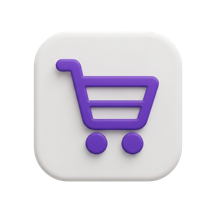
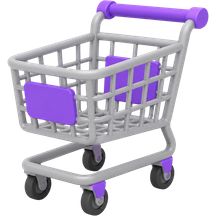
james: uniformizar o X e trocar os ícones das verticais pelos novos 3D
O mesmo ícone tinha dois comportamentos: no autocomplete limpava a consulta,
nos resultados voltava para a tela de busca. Agora os dois chamam
`limparBusca` — devolvem o campo focado vazio, com teclado e histórico.

Como as quatro telas da família de busca dividem o mesmo header de 94px e o
campo em top:42px, a troca continua sem animação de tela (deslizar um header
idêntico era justamente a piscada corrigida antes). Anima só o que muda de
fato: o teclado sobe quando não estava na tela, e o corpo entra em fade só
quando vem dos resultados, onde o conteúdo troca de verdade.

Ícones das verticais trocados pelos novos renders 3D. Dois ajustes foram
necessários: as proporções variavam de 0,93 a 1,99, então num slot quadrado o
Restaurantes ocupava metade da altura dos outros — recompus a arte
aproximando garfo e faca do prato (2:1 -> 1,39:1). E equalizei o peso óptico
pela raiz da área de tinta, que estava entre 78% e 100%, para a fileira ter
ritmo uniforme.

diff --git a/public/prototypes/james/index.html b/public/prototypes/james/index.html
@@ -303,8 +303,8 @@
           </span>
         </div>
         <!-- histórico visível com o campo focado: evita a tela vazia entre campo e teclado -->
-        <sc-if value="{{ temHistorico }}" hint-placeholder-val="{{ true }}"><div style="position:absolute;left:16px;top:118px;font-size:17px;font-weight:700;color:rgb(24,24,28);">{{ t.buscaRecente }}</div></sc-if>
-        <div style="position:absolute;left:0;top:148px;width:360px;padding:0 16px;">
+        <sc-if value="{{ temHistorico }}" hint-placeholder-val="{{ true }}"><div class="{{ corpoBuscaAnim }}" style="position:absolute;left:16px;top:118px;font-size:17px;font-weight:700;color:rgb(24,24,28);">{{ t.buscaRecente }}</div></sc-if>
+        <div class="{{ corpoBuscaAnim }}" style="position:absolute;left:0;top:148px;width:360px;padding:0 16px;">
           <sc-for list="{{ historico }}" as="hrow" hint-placeholder-count="6">
             <div style="width:328px;display:flex;align-items:center;">
               <button onClick="{{ hrow.go }}" style="flex:1;min-width:0;display:flex;align-items:center;gap:12px;padding:10px 0;text-align:left;" style-active="opacity:0.6;">
@@ -347,7 +347,7 @@
           <span style="font-size:13.5px;font-weight:600;color:rgb(38,28,66);">{{ queryTexto }}</span>
           <span style="width:2px;height:16px;background:#7A52CC;animation:caretBlink 1s infinite;margin-left:-6px;"></span>
           <span style="flex:1;"></span>
-          <button onClick="{{ limparBusca }}" aria-label="{{ t.limpar }}" style="width:44px;height:44px;margin-right:-13px;display:flex;align-items:center;justify-content:center;background:none;border:none;padding:0;cursor:pointer;"><svg width="15" height="15" viewBox="0 0 24 24"><circle cx="12" cy="12" r="10" fill="rgb(62,48,96)"></circle><path d="M8.5 8.5 L15.5 15.5 M15.5 8.5 L8.5 15.5" stroke="#fff" stroke-width="1.8" stroke-linecap="round"></path></svg></button>
+          <button onClick="{{ limparBusca }}" aria-label="{{ t.limpar }}" style="width:44px;height:44px;margin-right:-13px;display:flex;align-items:center;justify-content:center;" style-active="opacity:0.6;"><svg width="15" height="15" viewBox="0 0 24 24"><circle cx="12" cy="12" r="10" fill="rgb(62,48,96)"></circle><path d="M8.5 8.5 L15.5 15.5 M15.5 8.5 L8.5 15.5" stroke="#fff" stroke-width="1.8" stroke-linecap="round"></path></svg></button>
         </div>
         <div style="position:absolute;left:0;top:116px;width:360px;padding:0 20px;">
           <sc-for list="{{ sugestoes }}" as="sg" hint-placeholder-count="7">
@@ -383,7 +383,7 @@
           <svg width="16" height="16" viewBox="0 0 24 24"><circle cx="10.5" cy="10.5" r="6.5" fill="none" stroke="rgb(62,48,96)" stroke-width="2"></circle><path d="M15.5 15.5 L21 21" stroke="rgb(62,48,96)" stroke-width="2" stroke-linecap="round"></path></svg>
           <span style="font-size:13.5px;font-weight:600;color:rgb(38,28,66);">Pizza</span>
           <span style="flex:1;"></span>
-          <button onClick="{{ goBusca }}" aria-label="{{ t.limpar }}" style="width:44px;height:44px;margin-right:-13px;display:flex;align-items:center;justify-content:center;" style-active="opacity:0.6;"><svg width="15" height="15" viewBox="0 0 24 24"><circle cx="12" cy="12" r="10" fill="rgb(62,48,96)"></circle><path d="M8.5 8.5 L15.5 15.5 M15.5 8.5 L8.5 15.5" stroke="#fff" stroke-width="1.8" stroke-linecap="round"></path></svg></button>
+          <button onClick="{{ limparBusca }}" aria-label="{{ t.limpar }}" style="width:44px;height:44px;margin-right:-13px;display:flex;align-items:center;justify-content:center;" style-active="opacity:0.6;"><svg width="15" height="15" viewBox="0 0 24 24"><circle cx="12" cy="12" r="10" fill="rgb(62,48,96)"></circle><path d="M8.5 8.5 L15.5 15.5 M15.5 8.5 L8.5 15.5" stroke="#fff" stroke-width="1.8" stroke-linecap="round"></path></svg></button>
         </div>
         <!-- contagem + ordenar/filtrar -->
         <div style="position:absolute;left:16px;top:122px;font-size:12px;font-weight:600;color:rgb(60,60,66);">1211 {{ t.resultados }}</div>
@@ -615,6 +615,8 @@ class Component extends DCLogic {
 
   // Profundidade de cada tela na jornada. Busca, campo focado e autocomplete
   // dividem o mesmo nível: são estados da mesma tela, não navegação.
+  TEM_TECLADO = ['campo', 'auto'];
+
   DEPTH = { splash: 0, home: 1, busca: 2, campo: 2, auto: 2, resultados: 3 };
 
   direction = (from, to) => {
@@ -664,7 +666,8 @@ class Component extends DCLogic {
   // o X limpa a consulta e devolve o campo focado vazio — sem redigitar
   limparBusca = () => {
     this.limparTimers();
-    this.setState({ step: 'campo', dir: 'same', morph: null, de: 'auto', digitado: '', teclaAtiva: null });
+    this.setState((s) => ({ step: 'campo', dir: 'same', morph: null, de: s.step,
+                            digitado: '', teclaAtiva: null }));
   };
 
   removerHistorico = (nome) => () => {
@@ -732,8 +735,13 @@ class Component extends DCLogic {
       campoAnim: this.state.morph === 'abrir' ? 'campo-sobe' : this.state.morph === 'fechar' ? 'campo-desce' : '',
       conteudoAnim: this.state.morph ? 'conteudo-entra' : '',
       limparBusca: this.limparBusca,
-      // o teclado só desliza quando aparece de fato (vindo da busca)
-      tecladoAnim: (step === 'campo' && this.state.de === 'busca') ? 'teclado-sobe' : '',
+      // o teclado só desliza quando aparece de fato: entre campo e auto ele já
+      // está na tela, e re-animar leria como um salto
+      tecladoAnim: this.TEM_TECLADO.includes(step) && !this.TEM_TECLADO.includes(this.state.de)
+        ? 'teclado-sobe' : '',
+      // busca e campo mostram o mesmo histórico; só vindo dos resultados o
+      // corpo da tela troca de verdade e merece uma entrada
+      corpoBuscaAnim: (step === 'campo' && this.state.de === 'resultados') ? 'conteudo-entra' : '',
       // ao abrir a busca, o header carrega cópias da saudação/endereço/mascote
       // que dissolvem enquanto ele colapsa e as engole
       mostraFantasma: this.state.morph === 'abrir',
